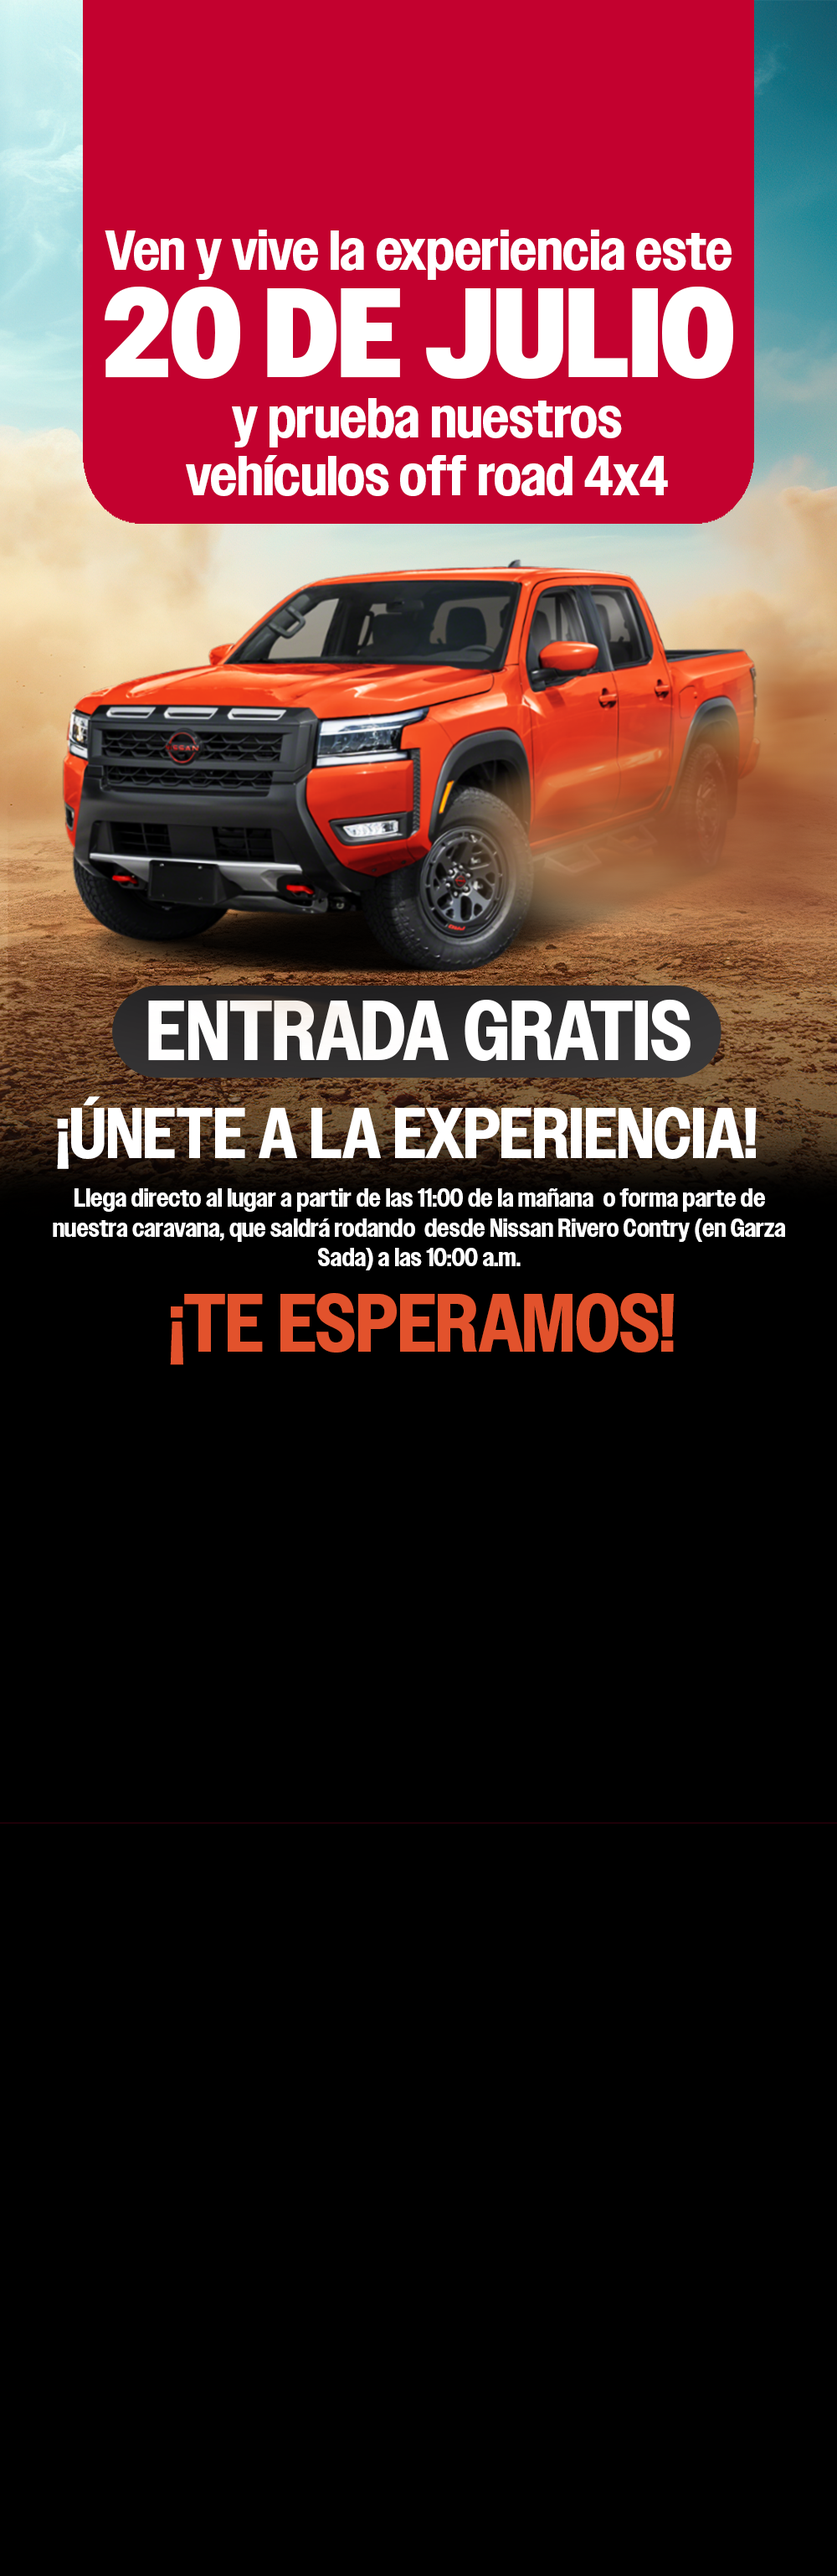
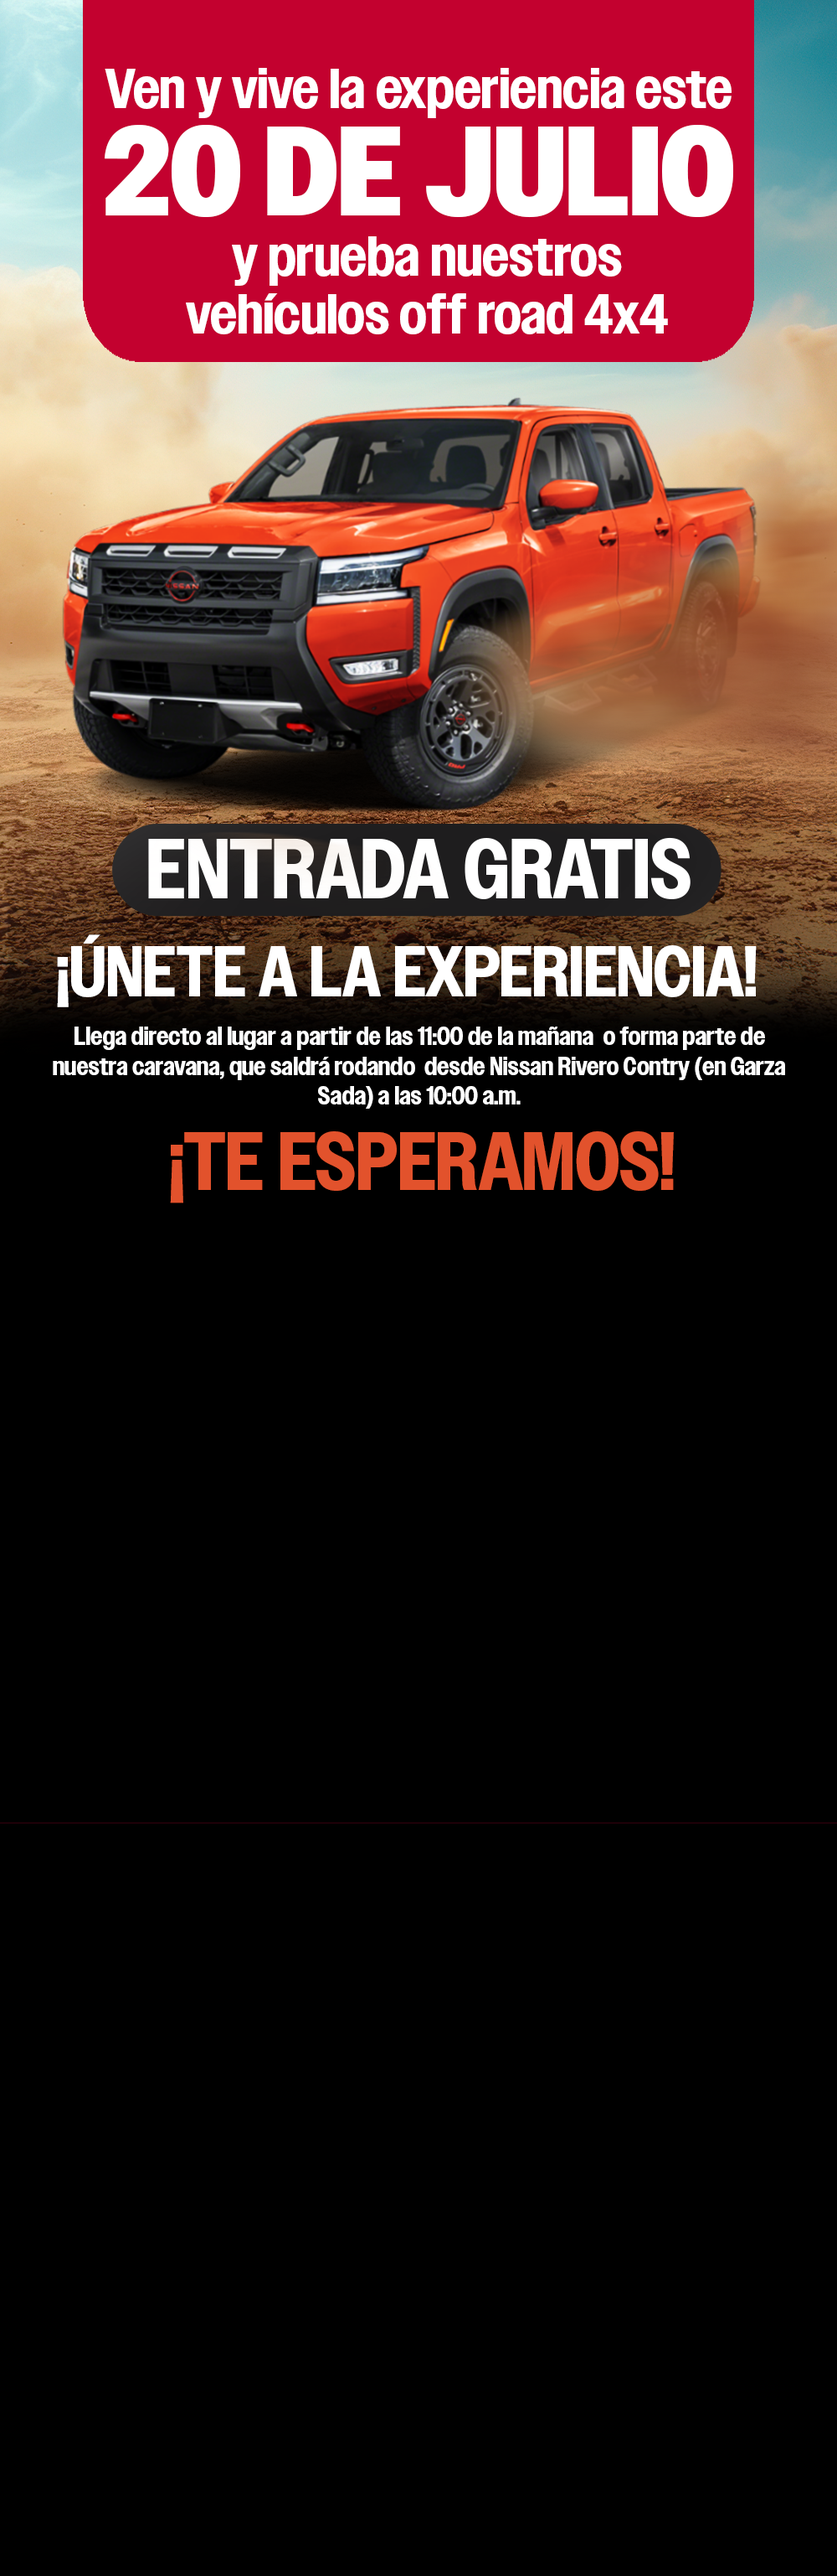
3.8

diff --git a/nissan/evento/index.php b/nissan/evento/index.php
@@ -27,7 +27,7 @@ $manana = date('Y-m-d', $manana);
     <body style="background-color:#1d1d1d;">
         <div style="display:flex; justify-content: center; align-items: center;">
             <div id="formOferta" class="formOferta row" class="p-4">
-                <div class="col-xl-8 col-lg-8 col-md-12 col-sm-12"></div>
+                <div class="col-xl-8 col-lg-8 col-md-12 col-sm-12 colSuperior"></div>
 
                 <div class="col-xl-4 col-lg-4 col-md-12 col-sm-12 d-flex justify-content-center">
                     <img src="logoOffroad.png" style="width:90%" />
@@ -36,15 +36,26 @@ $manana = date('Y-m-d', $manana);
                 <div class="col-xl-8 col-lg-8 col-md-12 col-sm-12"></div>
 
                 <div class="col-xl-4 col-lg-4 col-md-12 col-sm-12 d-flex justify-content-center">
+                    <form id="webToLeadForm" action="https://webto.salesforce.com/servlet/servlet.WebToLead?encoding=UTF-8&orgId=00DHp000005bwkK" method="POST">
+
+                    <input hidden name="oid" value="00DHp000005bwkK"/>
+                    <input hidden name="retURL" value="https://nissanrivero.com/gracias-por-contactarnos/nissan"/>
+                    <input hidden id="00NHp0000194HVl" maxlength="255" name="00NHp0000194HVl" size="20" type="text" value="Offroad Rivero" />
+                    <input hidden id="Campaign_ID" name="Campaign_ID" value="701Vn00000HA7g0IAD"/>
+                    <input hidden id="GRI_Codigo_Campana__c" name="GRI_Codigo_Campana__c" value="701Vn00000HA7g0IAD" />
+                    <input hidden id="00N2S000007ThUK" name="00N2S000007ThUK" value="https://nissanrivero.com" />
+                    <input hidden id="lead_source" name="lead_source" value="Internet" />
+                    <input hidden id="url" name="url" value="https://nissanrivero.com/evento/offroad-rivero" />
+                    <input hidden id="00NHp0000194HUw" name="00NHp0000194HUw"  value="nissanrivero.com"/>
                     <div>
                         <div class="form-group pb-2">
                             <label class="labelEvento" for="nombre">Nombre *</label><br/>
-                            <input class="inputEvento p-2 mb-1" placeholder="Nombre" id="nombre" maxlength="40" name="nombre" type="text" required />
+                            <input class="inputEvento p-2 mb-1" placeholder="Nombre" id="first_name" maxlength="40" name="first_name" type="text" required />
                         </div>
 
                         <div class="form-group pb-2">
                             <label class="labelEvento" for="nombre">Apellidos *</label><br/>
-                            <input class="inputEvento p-2 mb-1" placeholder="Apellidos" id="apellidos" maxlength="40" name="apellidos" type="text" required />
+                            <input class="inputEvento p-2 mb-1" placeholder="Apellidos" id="last_name" maxlength="40" name="last_name" type="text" required />
                         </div>
 
                         <div class="form-group pb-2" hidden>
@@ -53,7 +64,7 @@ $manana = date('Y-m-d', $manana);
 
                         <div class="form-group pb-2">
                             <label class="labelEvento" for="telefono">Teléfono *</label><br/>
-                            <input class="inputEvento p-2 mb-1" placeholder="Telefono" id="telefono" maxlength="10" name="telefono" type="text" required />
+                            <input class="inputEvento p-2 mb-1" placeholder="Telefono" id="mobile" maxlength="10" name="mobile" type="text" required />
                         </div>
 
                         <div class="form-group pb-2">
@@ -62,9 +73,10 @@ $manana = date('Y-m-d', $manana);
                         </div>
 
                         <div class="form-group p-2 d-flex justify-content-center">
-                            <div class="botonEvento text-white px-4 py-0" onclick="enviarRegistro()">ENVIAR</div>
+                            <div class="botonEvento text-white px-4 py-0">ENVIAR</div>
                         </div>
                     </div>
+                    </form>
                 </div>
 
                 <div class="col-xl-8 col-lg-8 col-md-12 col-sm-12"></div>
@@ -80,36 +92,50 @@ $manana = date('Y-m-d', $manana);
 </html>
 <script>
 
-    function enviarRegistro(){
-    
+    document.getElementById('webToLeadForm').addEventListener('submit', function (e) {
+    // Puedes hacer validaciones personalizadas aquí si quieres
+    // Si todo está bien, el formulario se enviará normalmente
+    // Si quieres evitar el envío, usa e.preventDefault();
+
         let nombre = $('#nombre').val();
         let apellidos = $('#apellidos').val();
         let email = $('#email').val();
         let telefono = $('#telefono').val();
 
-        console.log(nombre, apellidos,email,telefono);
+        if(nombre != "" && apellidos != "" && email !="" && telefono != ""){
+            console.log(nombre, apellidos,email,telefono);
 
-        var settings = {
-        "url": "https://multimarca.gruporivero.com/api/v1/registro/nissan/insert",
-        "method": "POST",
-        "timeout": 0,
-        "headers": {
-            "Content-Type": "application/json"
-        },
-        "data": JSON.stringify({
-            "nombre": nombre+" "+apellidos,
-            "telefono": telefono,
-            "email": email,
-            "agencia": "Contry",
-            "evento": "OffRoad Rivero"
-        }),
-        };
+            var settings = {
+            "url": "https://multimarca.gruporivero.com/api/v1/registro/nissan/insert",
+            "method": "POST",
+            "timeout": 0,
+            "headers": {
+                "Content-Type": "application/json"
+            },
+            "data": JSON.stringify({
+                "nombre": nombre+" "+apellidos,
+                "telefono": telefono,
+                "email": email,
+                "agencia": "Contry",
+                "evento": "OffRoad Rivero"
+            }),
+            };
 
-        console.log(settings);
+            console.log(settings);
 
-        $.ajax(settings).done(function (response) {
-        console.log(response);
-        });
+            $.ajax(settings).done(function (response) {
+                console.log(response);
+            });
+        } else {
+            alert('Datos incompletos');
+            e.preventDefault();
+        }
+
+    });
+
+    function enviarRegistro(){
+    
+
 
     }
 
@@ -278,12 +304,16 @@ $manana = date('Y-m-d', $manana);
 
     @media only screen and (max-width: 991px) {
         .formOferta{
-            background-position: 0%;
+            background-position: 0% 0%;
             background-image: url(backMovil.png)!important;
         }
 
         .inputEvento{
             width: 200px;
+        }
+
+        .colSuperior{
+            margin-top: 100vh;
         }
     }
 
